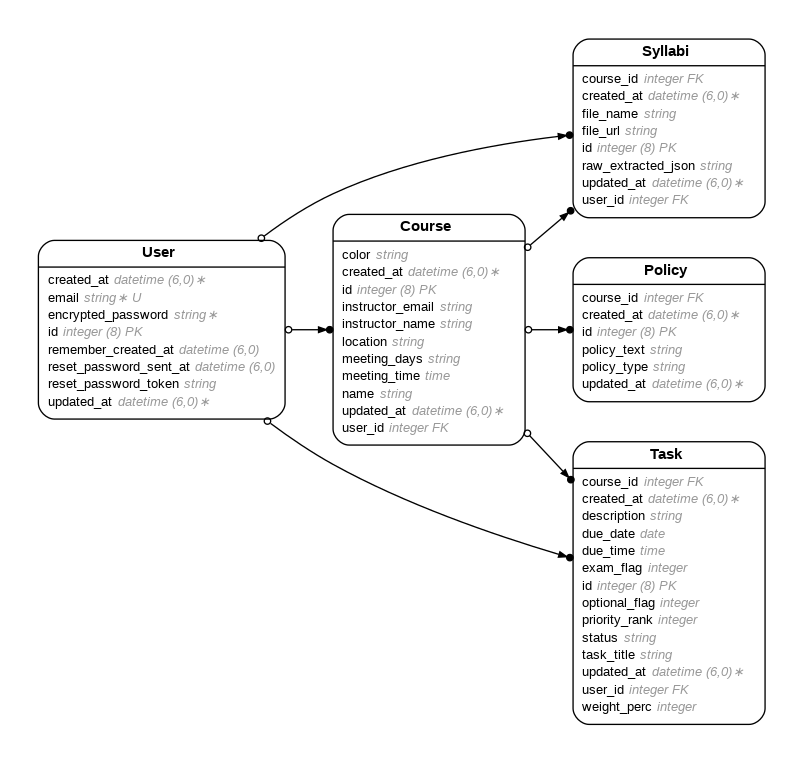
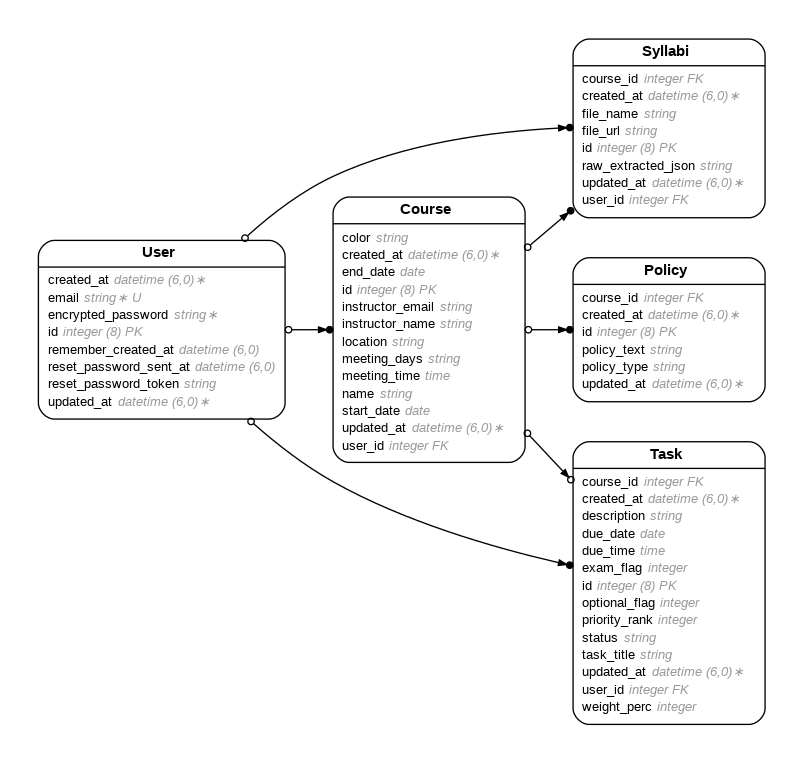
added two cols to courses

diff --git a/app/controllers/courses_controller.rb b/app/controllers/courses_controller.rb
@@ -3,6 +3,7 @@ class CoursesController < ApplicationController
     matching_courses = Course.all
 
     @list_of_courses = matching_courses.order({ :created_at => :desc })
+    @the_course = matching_courses.at(0)
 
     render({ :template => "course_templates/index" })
   end
@@ -26,7 +27,7 @@ class CoursesController < ApplicationController
     the_course.instructor_name = params.fetch("query_instructor_name")
     the_course.instructor_email = params.fetch("query_instructor_email")
     the_course.color = params.fetch("query_color")
-    the_course.meeting_days = params.fetch("query_meeting_days")
+    the_course.meeting_days = params.fetch("query_meeting_days", []).join(", ")
 
     if the_course.valid?
       the_course.save

diff --git a/db/schema.rb b/db/schema.rb
@@ -10,7 +10,7 @@
 #
 # It's strongly recommended that you check this file into your version control system.
 
-ActiveRecord::Schema[8.0].define(version: 2026_03_11_044002) do
+ActiveRecord::Schema[8.0].define(version: 2026_03_11_174611) do
   # These are extensions that must be enabled in order to support this database
   enable_extension "pg_catalog.plpgsql"
 
@@ -25,6 +25,8 @@ ActiveRecord::Schema[8.0].define(version: 2026_03_11_044002) do
     t.string "meeting_days"
     t.datetime "created_at", null: false
     t.datetime "updated_at", null: false
+    t.date "start_date"
+    t.date "end_date"
   end
 
   create_table "policies", force: :cascade do |t|

diff --git a/app/models/course.rb b/app/models/course.rb
@@ -4,12 +4,14 @@
 #
 #  id               :bigint           not null, primary key
 #  color            :string
+#  end_date         :date
 #  instructor_email :string
 #  instructor_name  :string
 #  location         :string
 #  meeting_days     :string
 #  meeting_time     :time
 #  name             :string
+#  start_date       :date
 #  created_at       :datetime         not null
 #  updated_at       :datetime         not null
 #  user_id          :integer

diff --git a/db/migrate/20260311174611_add_start_date_and_end_date_to_courses.rb b/db/migrate/20260311174611_add_start_date_and_end_date_to_courses.rb
@@ -1,0 +1,6 @@
+class AddStartDateAndEndDateToCourses < ActiveRecord::Migration[8.0]
+  def change
+    add_column :courses, :start_date, :date
+    add_column :courses, :end_date, :date
+  end
+end
